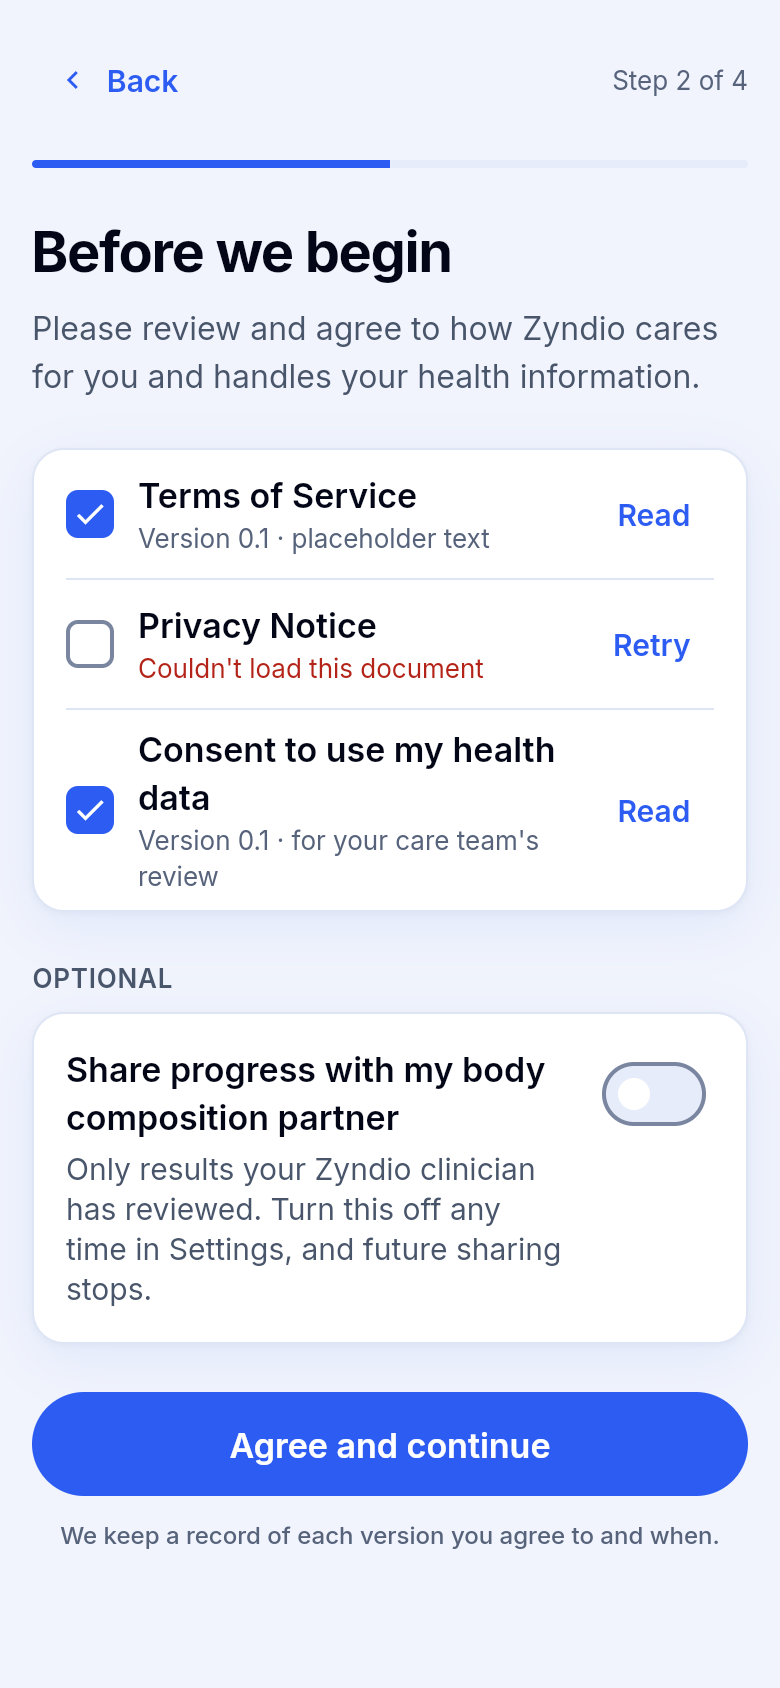
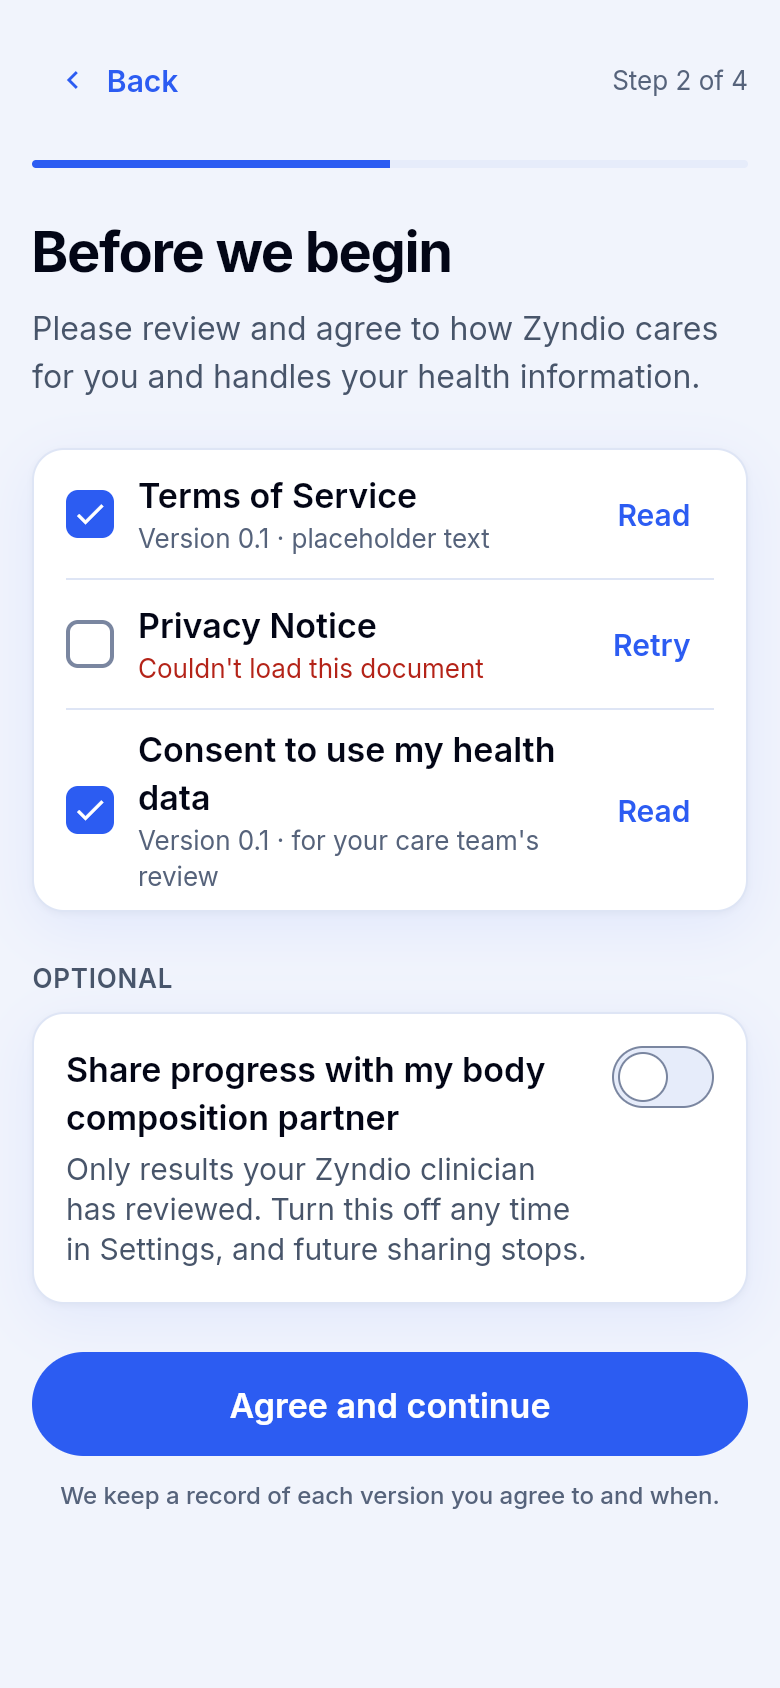
fix(demo): token switch with outlined full-height knob, light+dark (TC-009 item 4)
Replace the Material Switch in the optional consent card with a
token-driven ZyndioSwitch so the off-state knob stays a full-height,
outlined circle in dark mode instead of shrinking to a near-invisible
dot. Re-shot consent screenshots.

Changed region(s): [[0.0308, 0.7085, 0.9846, 0.9242], [0.7692, 0.6161, 0.9231, 0.6777]]

diff --git a/flutter_app/test/demo/widgets/zyndio_switch_test.dart b/flutter_app/test/demo/widgets/zyndio_switch_test.dart
@@ -1,0 +1,78 @@
+import 'package:flutter/material.dart';
+import 'package:flutter_test/flutter_test.dart';
+import 'package:zyndio_patient/config/theme.dart';
+import 'package:zyndio_patient/demo/widgets/zyndio_switch.dart';
+
+void main() {
+  Future<void> pumpSwitch(WidgetTester tester, {required ThemeData theme, required bool value}) {
+    return tester.pumpWidget(
+      MaterialApp(
+        theme: theme,
+        home: Scaffold(body: Center(child: ZyndioSwitch(value: value))),
+      ),
+    );
+  }
+
+  Container trackOf(WidgetTester tester) => tester.widget<Container>(
+        find.descendant(of: find.byType(ZyndioSwitch), matching: find.byType(Container)).first,
+      );
+
+  Container knobOf(WidgetTester tester) => tester.widget<Container>(
+        find.descendant(of: find.byType(ZyndioSwitch), matching: find.byType(Container)).last,
+      );
+
+  for (final entry in {'light': ZyndioColors.light, 'dark': ZyndioColors.dark}.entries) {
+    final themeName = entry.key;
+    final colors = entry.value;
+    final theme = themeName == 'light' ? BrandTheme.lightTheme : BrandTheme.darkTheme;
+
+    for (final value in [false, true]) {
+      final stateName = value ? 'on' : 'off';
+
+      testWidgets('$themeName theme, $stateName: track and knob are the correct size', (tester) async {
+        await pumpSwitch(tester, theme: theme, value: value);
+
+        expect(tester.getSize(find.byType(ZyndioSwitch)), const Size(ZyndioSize.switchWidth, ZyndioSize.switchHeight));
+        expect(tester.getSize(find.descendant(of: find.byType(ZyndioSwitch), matching: find.byType(Container)).last),
+            const Size(ZyndioSize.switchKnob, ZyndioSize.switchKnob));
+      });
+
+      testWidgets('$themeName theme, $stateName: track fill/border match ZyndioColors tokens', (tester) async {
+        await pumpSwitch(tester, theme: theme, value: value);
+
+        final trackDecoration = trackOf(tester).decoration as BoxDecoration;
+        final expectedTrackColor = value ? colors.brandPrimary : colors.bgSunken;
+        final expectedTrackBorder = value ? colors.brandPrimary : colors.borderStrong;
+
+        expect(trackDecoration.color, expectedTrackColor);
+        expect(trackDecoration.border, Border.all(color: expectedTrackBorder));
+      });
+
+      testWidgets('$themeName theme, $stateName: knob fill/outline match ZyndioColors tokens', (tester) async {
+        await pumpSwitch(tester, theme: theme, value: value);
+
+        final knobDecoration = knobOf(tester).decoration as BoxDecoration;
+        final expectedKnobOutline = value ? colors.brandPrimary : colors.borderStrong;
+
+        expect(knobDecoration.color, colors.bgSurface);
+        expect(knobDecoration.shape, BoxShape.circle);
+        expect(knobDecoration.border, Border.all(color: expectedKnobOutline));
+      });
+
+      testWidgets('$themeName theme, $stateName: knob sits at the ${value ? 'right' : 'left'}', (tester) async {
+        await pumpSwitch(tester, theme: theme, value: value);
+
+        final trackLeft = tester.getTopLeft(find.byType(ZyndioSwitch)).dx;
+        final knobLeft = tester.getTopLeft(
+          find.descendant(of: find.byType(ZyndioSwitch), matching: find.byType(Container)).last,
+        ).dx;
+        final offsetWithinTrack = knobLeft - trackLeft;
+        // 1px track border (auto-inset by BoxDecoration) + the spec's
+        // 2px (off) / 22px (on) CSS left offset.
+        final expectedOffset = value ? 23.0 : 3.0;
+
+        expect(offsetWithinTrack, closeTo(expectedOffset, 0.1));
+      });
+    }
+  }
+}

diff --git a/flutter_app/lib/demo/widgets/zyndio_switch.dart b/flutter_app/lib/demo/widgets/zyndio_switch.dart
@@ -1,0 +1,68 @@
+import 'package:flutter/material.dart';
+
+import '../../config/theme.dart';
+
+/// C17 optional-consent switch: track 51x31 with a 1px border, and a knob
+/// nearly the full track height (25x25, inset 2px) with its own 1px outline
+/// — unlike a Material [Switch], the off-state knob stays clearly outlined
+/// and full height instead of shrinking to a small dot.
+///
+/// Purely visual: callers wrap it in [ExcludeSemantics]/[IgnorePointer] and
+/// drive toggling from the surrounding hit area (see `optional_card.dart`).
+class ZyndioSwitch extends StatelessWidget {
+  const ZyndioSwitch({super.key, required this.value, this.onChanged});
+
+  final bool value;
+  final ValueChanged<bool>? onChanged;
+
+  static const double _knobSize = ZyndioSize.switchKnob;
+  static const double _knobInsetOff = 2.0;
+  static const double _knobInsetOn = 22.0;
+  static const double _knobTop = 2.0;
+  static const double _trackBorderWidth = 1.0;
+
+  @override
+  Widget build(BuildContext context) {
+    final colors = Theme.of(context).extension<ZyndioColors>()!;
+    final trackColor = value ? colors.brandPrimary : colors.bgSunken;
+    final trackBorderColor = value ? colors.brandPrimary : colors.borderStrong;
+    final knobOutlineColor = value ? colors.brandPrimary : colors.borderStrong;
+    final duration = ZyndioMotion.of(context);
+
+    return GestureDetector(
+      onTap: onChanged == null ? null : () => onChanged!(!value),
+      child: Container(
+        width: ZyndioSize.switchWidth,
+        height: ZyndioSize.switchHeight,
+        // No explicit padding: BoxDecoration.border already contributes an
+        // implicit inset equal to the border width, matching the CSS
+        // border-box containing block the left:2/22 offsets below assume.
+        decoration: BoxDecoration(
+          color: trackColor,
+          borderRadius: BorderRadius.circular(ZyndioRadius.pill),
+          border: Border.all(color: trackBorderColor, width: _trackBorderWidth),
+        ),
+        child: Stack(
+          clipBehavior: Clip.none,
+          children: [
+            AnimatedPositioned(
+              duration: duration,
+              curve: Curves.easeInOut,
+              left: value ? _knobInsetOn : _knobInsetOff,
+              top: _knobTop,
+              child: Container(
+                width: _knobSize,
+                height: _knobSize,
+                decoration: BoxDecoration(
+                  color: colors.bgSurface,
+                  shape: BoxShape.circle,
+                  border: Border.all(color: knobOutlineColor, width: _trackBorderWidth),
+                ),
+              ),
+            ),
+          ],
+        ),
+      ),
+    );
+  }
+}

diff --git a/flutter_app/test/demo/widgets/optional_card_test.dart b/flutter_app/test/demo/widgets/optional_card_test.dart
@@ -2,6 +2,7 @@ import 'package:flutter/material.dart';
 import 'package:flutter_test/flutter_test.dart';
 import 'package:zyndio_patient/config/theme.dart';
 import 'package:zyndio_patient/demo/widgets/optional_card.dart';
+import 'package:zyndio_patient/demo/widgets/zyndio_switch.dart';
 
 void main() {
   testWidgets('OptionalCard renders its copy and toggles on tap anywhere in the card', (tester) async {
@@ -28,7 +29,7 @@ void main() {
   });
 
   testWidgets(
-    'dark mode: OFF switch thumb/track/outline colours come from ZyndioColors tokens, never a hardcoded white knob',
+    'dark mode: OFF switch knob/track/outline colours come from ZyndioColors tokens, never a hardcoded white knob',
     (tester) async {
       await tester.pumpWidget(
         MaterialApp(
@@ -43,19 +44,28 @@ void main() {
         ),
       );
 
-      final context = tester.element(find.byType(Switch));
+      final context = tester.element(find.byType(ZyndioSwitch));
       final colors = Theme.of(context).extension<ZyndioColors>()!;
-      final switchTheme = Theme.of(context).switchTheme;
-      const offStates = <WidgetState>{};
 
-      final thumbColor = switchTheme.thumbColor!.resolve(offStates);
-      final trackColor = switchTheme.trackColor!.resolve(offStates);
-      final outlineColor = switchTheme.trackOutlineColor!.resolve(offStates);
+      final track = tester.widget<Container>(
+        find.descendant(of: find.byType(ZyndioSwitch), matching: find.byType(Container)).first,
+      );
+      final trackDecoration = track.decoration as BoxDecoration;
+      expect(trackDecoration.color, colors.bgSunken);
+      expect(trackDecoration.border, Border.all(color: colors.borderStrong));
 
-      expect(thumbColor, colors.bgSurface);
-      expect(thumbColor, isNot(Colors.white));
-      expect(trackColor, colors.bgSunken);
-      expect(outlineColor, colors.borderStrong);
+      final knob = tester.widget<Container>(
+        find.descendant(of: find.byType(ZyndioSwitch), matching: find.byType(Container)).last,
+      );
+      final knobDecoration = knob.decoration as BoxDecoration;
+      expect(knobDecoration.color, colors.bgSurface);
+      expect(knobDecoration.color, isNot(Colors.white));
+      expect(knobDecoration.border, Border.all(color: colors.borderStrong));
+
+      final knobSize = tester.getSize(
+        find.descendant(of: find.byType(ZyndioSwitch), matching: find.byType(Container)).last,
+      );
+      expect(knobSize, const Size(ZyndioSize.switchKnob, ZyndioSize.switchKnob));
     },
   );
 }

diff --git a/flutter_app/lib/demo/widgets/optional_card.dart b/flutter_app/lib/demo/widgets/optional_card.dart
@@ -2,6 +2,7 @@ import 'package:flutter/material.dart';
 
 import '../../config/theme.dart';
 import 'demo_card.dart';
+import 'zyndio_switch.dart';
 
 /// C17 Optional consent card: title + body + trailing switch. Hit area is
 /// the whole card, role switch, off by default.
@@ -43,13 +44,13 @@ class OptionalCard extends StatelessWidget {
                 ),
               ),
               const SizedBox(width: ZyndioSpace.s12),
-              // A real Switch (not a custom-painted visual) so colour comes
-              // entirely from the app's SwitchThemeData tokens — no
-              // per-widget override, and no risk of a hardcoded white knob
-              // showing up against a dark track in dark mode.
+              // A token-driven switch (not Material's Switch) so the off-state
+              // knob stays an outlined, full-height circle in dark mode —
+              // Material's Switch can't draw that and shrinks the off thumb
+              // to a small dot. Colour comes entirely from ZyndioColors.
               ExcludeSemantics(
                 child: IgnorePointer(
-                  child: Switch(value: value, onChanged: (_) {}),
+                  child: ZyndioSwitch(value: value, onChanged: (_) {}),
                 ),
               ),
             ],

diff --git a/flutter_app/lib/config/theme.dart b/flutter_app/lib/config/theme.dart
@@ -292,6 +292,7 @@ abstract final class ZyndioSize {
   static const double checkbox = 24.0;
   static const double switchWidth = 51.0;
   static const double switchHeight = 31.0;
+  static const double switchKnob = 25.0;
   static const double icon = 24.0;
   static const double iconSmall = 18.0;
   static const double spinner = 20.0;
